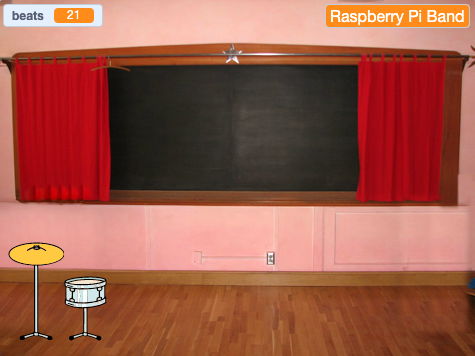
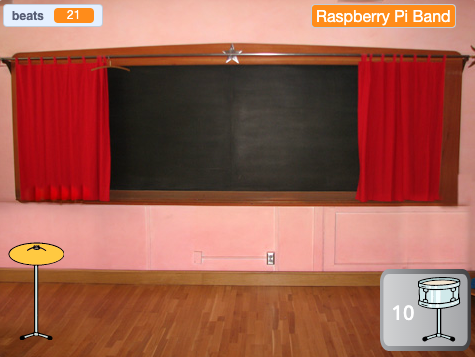
multiple changes

diff --git a/en/step_8.md b/en/step_8.md
@@ -13,14 +13,14 @@ There are lots more drum costumes to choose from to add more upgrades to your pr
 
 To add another drum to upgrade to, look back at the earlier steps of the project. 
 
-For the drum, you will need to:
+For the **drum**, you will need to:
 
 --- task ---
 Duplicate the previous drum sprite and add two costumes. 
 --- /task ---
 
 --- task ---
-Change the costume and sound used in the `when this sprite clicked`{:class="block3events"} script. 
+Change the `costume`{:class="block3looks"} and `sound`{:class="block3sound"} used in the `when this sprite clicked`{:class="block3events"} script. 
 --- /task ---
 
 --- task ---
@@ -28,35 +28,35 @@ Change the number of `beats`{:class="block3variables"} earned in the `when this 
 --- /task ---
 
 --- task ---
-Change the message that makes the drum `show`{:class="block3looks"} to a message for the **new drum**. 
+Change the `message`{:class="block3events"} that makes the drum `show`{:class="block3looks"} to a message for the **new drum**. 
 --- /task ---
 
-For the button, you will need to:
+For the **button**, you will need to:
 
 --- task ---
 Duplicate the previous Get button sprite. 
 --- /task ---
 
 --- task ---
-Change the message that makes the button appear to the message broadcast by the **previous drum**. 
+Change the `message`{:class="block3events"} that makes the button appear to the `message`{:class="block3events"} `broadcast`{:class="block3events"} by the **previous drum**. 
 --- /task ---
 
 --- task ---
-Change the costume including the cost of the new drum. 
+Change the `costume`{:class="block3looks"} including the cost of the new drum. 
 --- /task ---
 
 --- task ---
-Change the number of `beats`{:class="block3variables"} you must have to get this drum in the `if`{:class="block3events"} condition and the negative number of `beats`{:class="block3variables"} you `change by`{:class="block3variables"} when you get this drum. Change the message that gets `broadcast`{:class="block3events"}to the name of the **new drum**.
+Change the number of `beats`{:class="block3variables"} you must have to get this drum in the `if`{:class="block3events"} condition. Change the negative number of `beats`{:class="block3variables"} you `change by`{:class="block3variables"} when you get this drum. Change the message that gets `broadcast`{:class="block3events"} to the name of the **new drum**.
 --- /task ---
 
-For the venue, you will need to:
+For the **venue**, you will need to:
 
 --- task ---
 Add a new backdrop. 
 --- /task ---
 
 --- task ---
-Add a script to the Stage to `switch backdrop to`{:class="block3looks"} the new backdrop when the messgage for this drum is receieved.
+Add a script to the Stage to `switch backdrop to`{:class="block3looks"} the new backdrop when the `message`{:class="block3events"} for this drum is receieved.
 --- /task ---
 
 You might find that your drums need to be in a new position on a different backdrop. 

diff --git a/en/quiz1/question_3.md b/en/quiz1/question_3.md
@@ -5,7 +5,7 @@
 legend: Question 3 of 3
 ---
 
-You used this script control what happens when the player clicks on the button to upgrade their drum.
+You used this script to control what happens when the player clicks on the button to upgrade their drum:
 
 ```blocks3
 when this sprite clicked
@@ -18,7 +18,7 @@ say [Not enough beats!] for [2] seconds
 end
 ```
 
-If the value of the `beats`{:class="block3variables"} variable is 29, what will happen when the player clicks on the button?
+If the value of the `beats`{:class="block3variables"} variable is `29`, what will happen when the player clicks on the button?
 
 --- choices ---
 
@@ -30,11 +30,11 @@ If the value of the `beats`{:class="block3variables"} variable is 29, what will 
 
   --- /feedback ---
 
-- (x) The button sprite will  `say`{:class="block3looks"} `Not enough beats!`.
+- (x) The button sprite will `say`{:class="block3looks"} `Not enough beats!`.
 
   --- feedback ---
 
-Yes, the condition checks if `beats`{:class="block3variables"} is greater than 29, but `beats`{:class="block3variables"} is equal to 29 so the player does not have enough.
+Yes, the condition checks if `beats`{:class="block3variables"} is greater than `29`, but `beats`{:class="block3variables"} is equal to `29` so the player does not have enough.
 
   --- /feedback ---
 
@@ -42,7 +42,7 @@ Yes, the condition checks if `beats`{:class="block3variables"} is greater than 2
 
   --- feedback ---
 
-  No, the value of the `beats`{:class="block3variables"} variable will stay the same. `beats`{:class="block3variables"} is 29 which means `beats`{:class="block3variables"} `> 29` is false, so the blocks in the first part of the `if`{:class="block3control"} block will not run.
+  No, the value of the `beats`{:class="block3variables"} variable will stay the same. `beats`{:class="block3variables"} is `29` which means `beats`{:class="block3variables"} `> 29` is false, so the blocks in the first part of the `if`{:class="block3control"} block will not run.
 
   --- /feedback ---s
 

diff --git a/en/quiz1/question_1.md b/en/quiz1/question_1.md
@@ -16,11 +16,11 @@ legend: Question 1 of 3
 
 In your project you created and used variables. Which of these values can be stored in a variable? 
 
-`6` , `Bob` , `151` , `Aadya`
+`6` , `Tom` , `151` , `Aadya`
 
 --- choices ---
 
-- ( ) The numbers
+- ( ) Only the numbers `6` and `151`.
 
  --- feedback ---
 
@@ -28,29 +28,29 @@ In your project you created and used variables. Which of these values can be sto
 
  --- /feedback ---
 
-- ( ) The text (words)
+- ( ) Only the text (words) `Tom` and `Aadya`
 
  --- feedback ---
 
- You used the `name`{:class="block3variables"} variable to store text (words), the `answer`{:class="block3sensing"} to the `ask`{:class="block3sensing"} question. But you also used a variable for something else.
+ You used the `name`{:class="block3variables"} variable to store text (words), for the `answer`{:class="block3sensing"} to the `ask`{:class="block3sensing"} question. But you also used a `variable`{:class="block3variables"} for something else.
 
  --- /feedback ---
 
-- (x) The numbers or text (words).
+- (x) Any of the numbers or text (words)
 
  --- feedback ---
 
- Yes, you stored a number in the `beats`{:class="block3variables"} and you stored text (words) in the `name`{:class="block3variables"}.
+ Yes, you stored a number in the `beats`{:class="block3variables"} `variable`{:class="block3variables"} and you stored text (words) in the `name`{:class="block3variables"} `variable`{:class="block3variables"}.
  
  A variable can store a number or text (words).
 
  --- /feedback ---
 
-- ( ) Neither.
+- ( ) None of them.
 
  --- feedback ---
 
-No. Think about the `bests`{:class="block3variables"} and `name`{:class="block3variables"} variables that you used.
+No. Think about the `beats`{:class="block3variables"} and `name`{:class="block3variables"} variables that you used.
 
  --- /feedback ---
 

diff --git a/en/step_9.md b/en/step_9.md
@@ -1,6 +1,6 @@
 ## What next?
 
-If you are following the [More Scratch](https://projects.raspberrypi.org/en/raspberrypi/more-scratch) path, you can move on to the [Don't fall in](https://projects.raspberrypi.org/en/projects/dont-fall-in) project. In this project, you will make a top-down game where you have to jump from platform to platform and not fall in.
+If you are following the [More Scratch](https://projects.raspberrypi.org/en/raspberrypi/more-scratch){:target="_blank"} path, you can move on to the [Don't fall in](https://projects.raspberrypi.org/en/projects/dont-fall-in){:target="_blank"} project. In this project, you will make a top-down game where you have to jump from platform to platform and not fall in.
 
 --- print-only ---
 
@@ -11,9 +11,11 @@ If you are following the [More Scratch](https://projects.raspberrypi.org/en/rasp
 --- no-print ---
 
 <div class="scratch-preview" style="margin-left: 15px;">
-  <iframe allowtransparency="true" width="485" height="402" src="https://scratch.mit.edu/projects/embed/486719199/?autostart=false" frameborder="0"></iframe>
+  <iframe allowtransparency="true" width="485" height="402" src="https://scratch.mit.edu/projects/525202210/" frameborder="0"></iframe>
 </div>
+
+**Instructions:** Press space or tap the Stage to jump.
 
 --- /no-print ---
 
-If you want to have more fun exploring Scratch, then you could try out any of [these projects](https://projects.raspberrypi.org/en/projects?software%5B%5D=scratch&curriculum%5B%5D=%201).
+If you want to have more fun exploring Scratch, then you could try out any of [these projects](https://projects.raspberrypi.org/en/projects?software%5B%5D=scratch&curriculum%5B%5D=%201){:target="_blank"}.

diff --git a/en/step_4.md b/en/step_4.md
@@ -80,7 +80,7 @@ Position it in the bottom-right corner of the Stage, change the visibility to `s
 
 --- task ---
 
-Click on the **Drum-snare** sprite and go to the **Costumes** tab. Use the **Select** (arrow) tool to highlight the not hit costume of your drum then click the **Copy** icon:  
+Click on the **Drum-snare** sprite and go to the **Costumes** tab. Use the **Select** (arrow) tool to highlight the not hit costume of your drum. Click on the **Group** icon then the **Copy** icon:  
 
 ![](images/snare-icon.png)
 
@@ -111,9 +111,9 @@ show
 
 --- /task ---
 
-The upgrade can only be bought when the user has collected `ten` or more beats.
+The upgrade can only be bought if the user has `10` or more beats. In [Grow a dragonfly](https://projects.raspberrypi.org/en/projects/grow-a-dragonfly){:target="_blank"} you learned about making decisions with `if`{:class="block3control"} blocks. 
 
-An `if ... else`{:class="block3control"} block can be used to do different things if a condition is `true` or `false`. 
+An `if ... else`{:class="block3control"} block is used to make a decision and do different things if a condition is `true` or `false`. 
 
 <p style="border-left: solid; border-width:10px; border-color: #0faeb0; background-color: aliceblue; padding: 10px;">
 We use <span style="color: #0faeb0">**if ... else**</span> all the time to make decisions. When you wake up you check and `if`{:class="block3control"} it is morning you get up `else`{:class="block3control"} you go back to sleep. Can you think of any `if ... else`{:class="block3control"} decisions you make? 

diff --git a/en/step_2.md b/en/step_2.md
@@ -25,9 +25,9 @@ The game starts in a bedroom like a DIY artist.
 
 --- task ---
 
-Click **Choose a Backdrop** and search for `bedroom`. 
+Click **Choose a Backdrop** and search for 'bedroom'. 
 
-**Choose:** a bedroom and add it to your project. We chose `Bedroom 3`
+**Choose:** Select a bedroom and add it to your project. We chose `Bedroom 3`
 
 ![The stage showing the 'Bedroom 3' backdrop.](images/bedroom3.png)
 
@@ -91,7 +91,7 @@ Click on the `Sensing`{:class="block3sensing"} blocks menu and add an `ask`{:cla
 ```blocks3
 when flag clicked
 switch backdrop to (Bedroom 3 v) //your backdrop name
-set [name v] to (???) //your variable
+set [name v] to [???] //your variable
 + ask [What is your rock star name?] and wait //your question
 ```
 
@@ -138,7 +138,7 @@ Drag your `variable`{:class="block3variables"} to position it in top-right of th
 
 --- task ---
 
-Now that you know the `variable`{:class="block3variables"} changes to the `answer`{:class="block3sensing"} you can drag the last 2 blocks of code away from the rest of the script so you don't have to type an `answer`{:class="block3sensing"} every time you test your project:
+Now that you have tested that the `variable`{:class="block3variables"} changes to the `answer`{:class="block3sensing"} you can drag the last 2 blocks of code away from the rest of the script. This means you don't have to type an `answer`{:class="block3sensing"} every time you test your project:
 
 ![](images/stage-icon.png)
 

diff --git a/en/step_5.md b/en/step_5.md
@@ -2,7 +2,7 @@
 
 <div style="display: flex; flex-wrap: wrap">
 <div style="flex-basis: 200px; flex-grow: 1; margin-right: 15px;">
-In this step, your drum skills are improving, time for a second upgrade. This time you will choose a drum.
+In this step, your drum skills are improving, time for a second upgrade. This time you will choose which drum to add.
 </div>
 <div>
 ![The Stage showing party backdrop with 3 drums.](images/second-upgrade.png){:width="300px"}
@@ -92,7 +92,7 @@ Your button should look like this:
 --- /task ---
 
 
-This button should `hide`{:class="block3looks"} at the start then `show `{:class="block3looks"} when the player upgrades to the snare drum so they know which drum they are working towards.
+This button should `hide`{:class="block3looks"} at the start then `show`{:class="block3looks"} when the player upgrades to the snare drum so they know which drum they are working towards.
 
 --- task ---
 
@@ -131,10 +131,10 @@ Also change the message that is `broadcast`{:class="block3events"} when the play
 
 ```blocks3
 when this sprite clicked
-+if <(beats)>  [29]> then // change to 29
+if <(beats)>  [29]> then // change to 29
 hide
-+change [beats v] by [-30] // change to 30
-+ broadcast [conga v] // change to your drum name
+change [beats v] by [-30] // change to 30
+broadcast [conga v] // change to your drum name
 else
 say [Not enough beats!] for [2] seconds 
 end

diff --git a/en/step_1.md b/en/step_1.md
@@ -3,9 +3,9 @@
 Make a clicker game where you earn beats to play new drums at bigger venues.
 
 You will:
-+ Use `variables`{:class="block3variables"} to store and change numbers and change text (words),
++ Use `variables`{:class="block3variables"} to store and change numbers and text (words),
 + `ask`{:class="block3sensing"} a question and use the `answer`{:class="block3sensing"} to customise the game,
-+ Use `if...else`{:class="block3control"} to control what happens next.
++ Use `if...else`{:class="block3control"} blocks to make decisions.
 
 <p style="border-left: solid; border-width:10px; border-color: #0faeb0; background-color: aliceblue; padding: 10px;">
 There are lots of <span style="color: #0faeb0">**clicker games**</span> where you have to click to make progress and buy upgrades that help you go faster. Have you ever played a clicker game? There are also idle games that keep going even when you're not playing them. These games are fun as long as you don't spend too much time playing them!</p>

diff --git a/en/quiz1/question_2.md b/en/quiz1/question_2.md
@@ -9,7 +9,7 @@ A project has this script to `ask`{:class="block3sensing"} the user for their na
 
 ```blocks3
 when flag clicked
-set [name v] to (???) 
+set [name v] to [???] 
 ask [What's your name?] and wait 
 set [name v] to (answer)
 ```
@@ -47,7 +47,7 @@ No, `answer`{:class="block3sensing"} is the built-in variable that Scratch uses 
 
   --- feedback ---
 
-Yes, the `set [name v] to`{:class="block3variables"} block set the value of the `name`{:class="block3variables"} variable to the value of `answer`{:class="block3sensing"} which is the text the user entered.
+Yes, the `set [name v] to`{:class="block3variables"} block set the **value** of the `name`{:class="block3variables"} variable to the value of `answer`{:class="block3sensing"} which is the text the user entered.
 
 The value 'Bobo' will also be shown on the Stage.
 

diff --git a/en/step_3.md b/en/step_3.md
@@ -5,7 +5,7 @@
 In this step, you will add a cymbal sprite that you can click to earn beats and play a sound.
 </div>
 <div>
-![](images/step-image.png){:width="300px"}
+![](images/starter-drum.png){:width="300px"}
 </div>
 </div>
 
@@ -111,4 +111,3 @@ set [name v] to [???] //your variable
 --- /task ---
 
 --- save ---
-f
